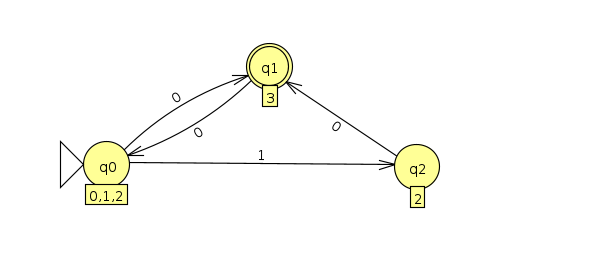
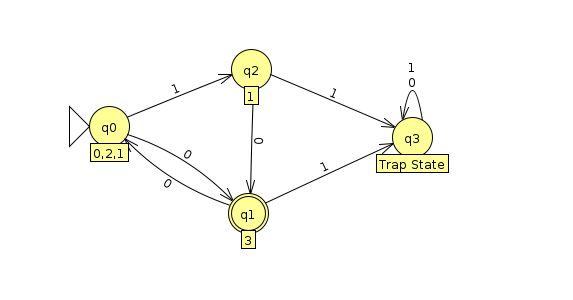
fixes

diff --git a/README.md b/README.md
@@ -57,7 +57,7 @@
 #### 2.    a1dfa2.jff = { w | neither 00 nor 000 is a substring of w }
     (Q,Σ,delta,start,final)
 
-    Q = { q0, q1, q2 }
+    Q = { q0, q1, q2, q3 }
     Σ = {0, 1}
     Delta
     start = { q0 }
@@ -69,7 +69,8 @@
 | ------------- | ---------------------- | ---------------------- |
 | →q0           | q1                     | q0                     |
 | q1            | q2                     | q1                     |
-| q2            | q2                     | q2                     |
+| q2            | q3                     | q2                     |
+| q3            | q3                     | q3                     |
 
 
 
@@ -85,7 +86,7 @@
     Σ = {0, 1}
     Delta
     start = { q0 }
-    accept = { q0, q1}
+    accept = { q0, q1, q3 }
 
 ###### Delta
 | Present State | Next state for input 0 | Next state for input 1 |
@@ -106,7 +107,7 @@
     Σ = {0, 1}
     Delta
     start = { q0 }
-    accept = { q0, q1, q3, q4}
+    accept = { q0, q1, q3 }
 
 
 ###### Delta
@@ -124,8 +125,8 @@
 #### 5. a1dfa5.jff = { w | neither 000 nor 001 is a substring of w }
     (Q,Σ,delta,start,final)
 
-    Q = { q0, q1, q2, q3 }
-    Σ = {0, 1}a1dfa1, a1dfa2, a1dfa4
+    Q = { q0, q1, q2, q3, q4 }
+    Σ = {0, 1}
     Delta
     start = { q0 }
     accept = { q0, q1, q2}
@@ -136,15 +137,16 @@
 | ------------- | ---------------------- | ---------------------- |
 | →q0           | q1                     | q0                     |
 | q1            | q2                     | q0                     |
-| q2            | q2                     | q2                     |
+| q2            | q3                     | q4                     |
 | q3            | q3                     | q3                     |
+| q4            | q4                     | q4                     |
 
 ![a1dfa5 image](./images/a1dfa5.png)
 
 ---
 > #### Use Online Text to indicate the groupings as equivalence sets
 
-  {a1dfa1.jff, a1dfa2.jff, a1dfa4.jff} {a1dfa4} {a1dfa5}
+  {a1dfa1.jff, a1dfa2.jff, a1dfa4.jff} {a1dfa3.jjf} {a1dfa5.jff}
 
 > #### Reflect on the experience of constructing these DFAs. Use Online Text to report observations related to your learning.
 
@@ -167,8 +169,10 @@ The assignment started off pretty smoothly then in talking with classmates there
 | State | 0   | 1   |
 | ----- | --- | --- |
 | →q0   | q1  | q2  |
-| q1    | q0  | T   |
-| q2    | q1  | T   |
+| q1    | q0  | q3  |
+| q2    | q1  | q3  |
+| q2    | q1  | q3  |
+| q3    | q3  | q3  |
 
 
 ![a2dfa image](./images/a2dfa.png)
@@ -178,7 +182,7 @@ I am still working on getting the handle of using the tables and  transitions fu
 
 ---
  ## A3
-#### Finite automata are useful components of computers and algorithms, t---hus it is important to be able to minimize the number of states of a given DFA. Convert the following DFA to a minimum-state equivalent DFA.
+#### Finite automata are useful components of computers and algorithms, thus it is important to be able to minimize the number of states of a given DFA. Convert the following DFA to a minimum-state equivalent DFA.
 
 ##### Original
 
